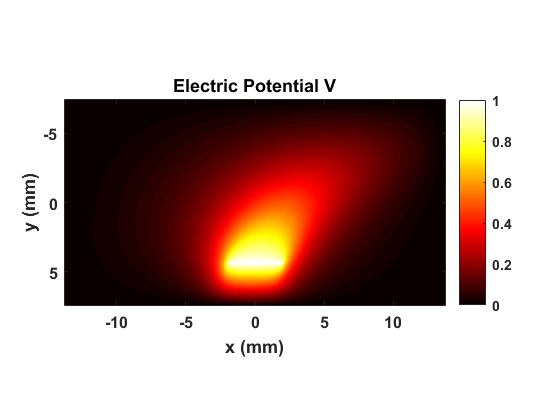
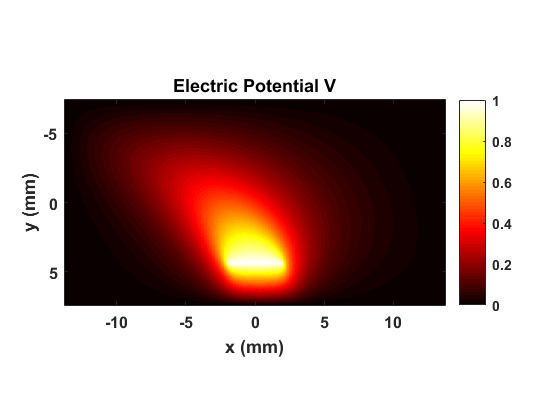
Image Changes

Changed region(s): [[0.1518, 0.2476, 0.7589, 0.7119]]

diff --git a/AnisoMicroStrip.m b/AnisoMicroStrip.m
@@ -113,7 +113,7 @@ for ny = 1 : Ny2
   y = (ny - 1)*dx2;
   
   % CALCULATE ANGLE OF ROTATION
-  PHI = (y/h)*(10*degrees);
+  PHI = -(y/h)*(10*degrees);
   
   % ROTATION MATRIX
   R = RotMat(PHI,'z');
